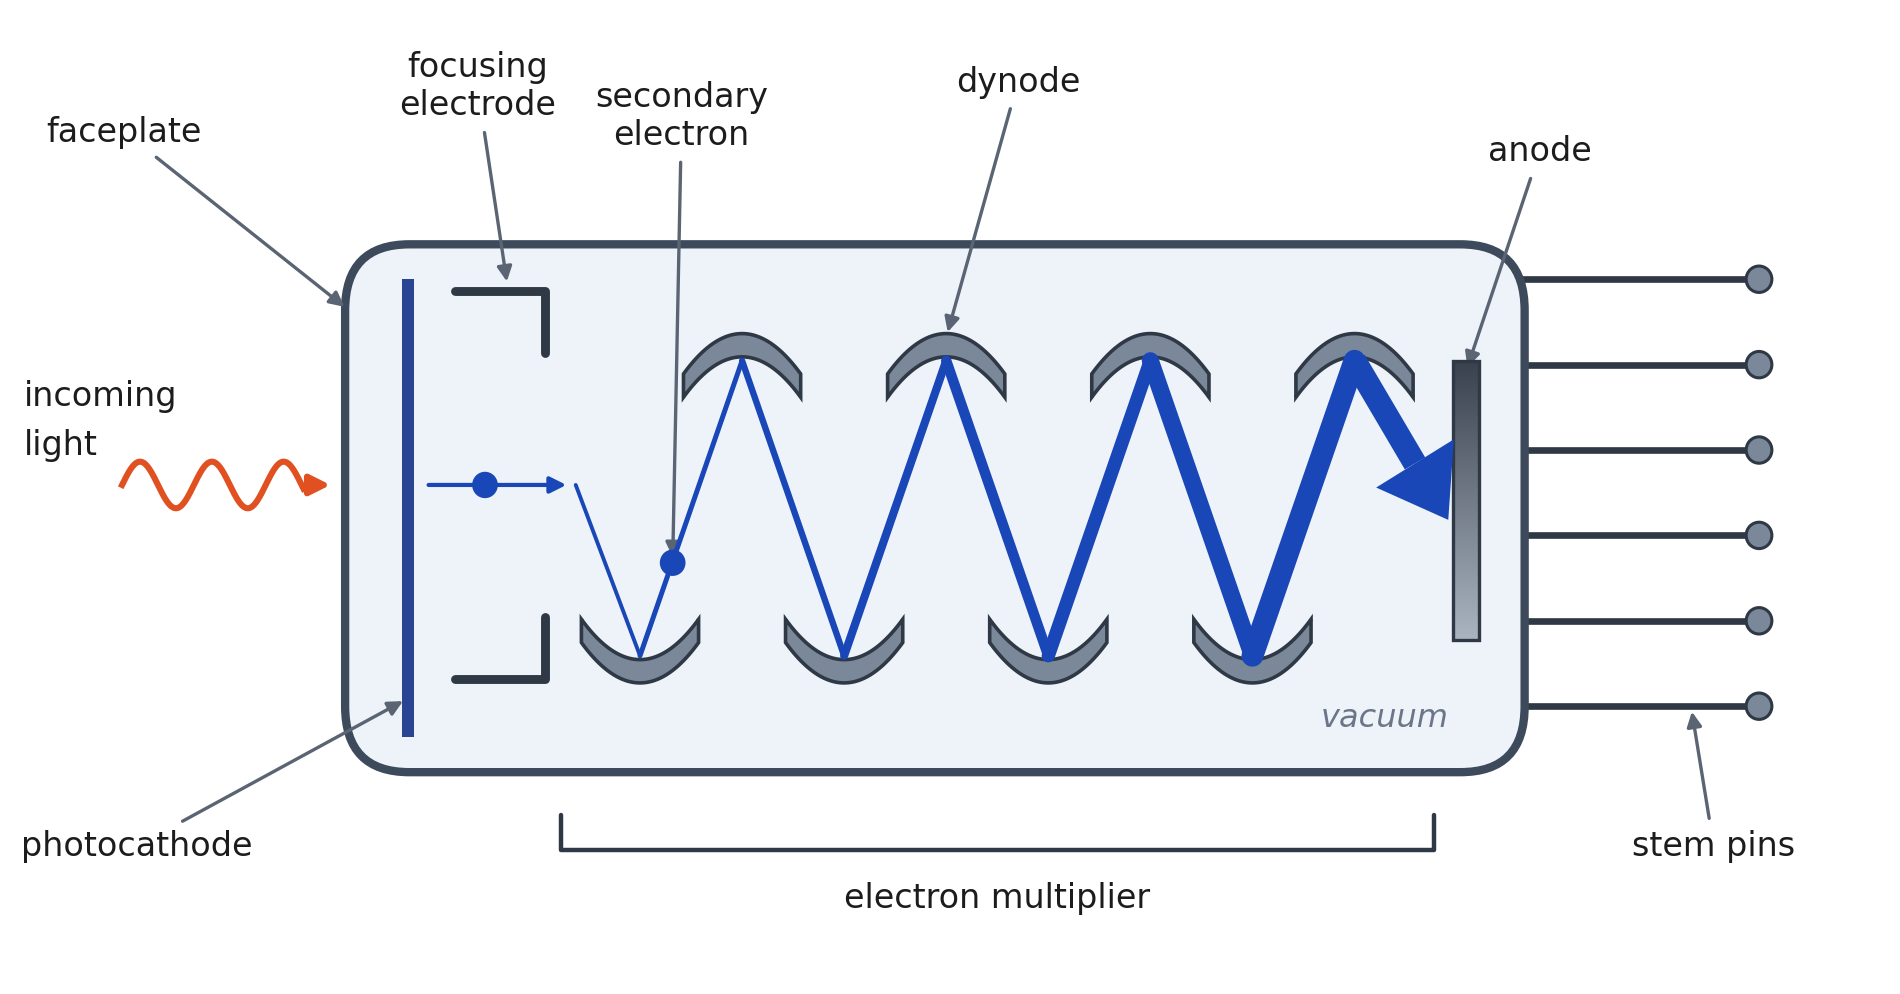
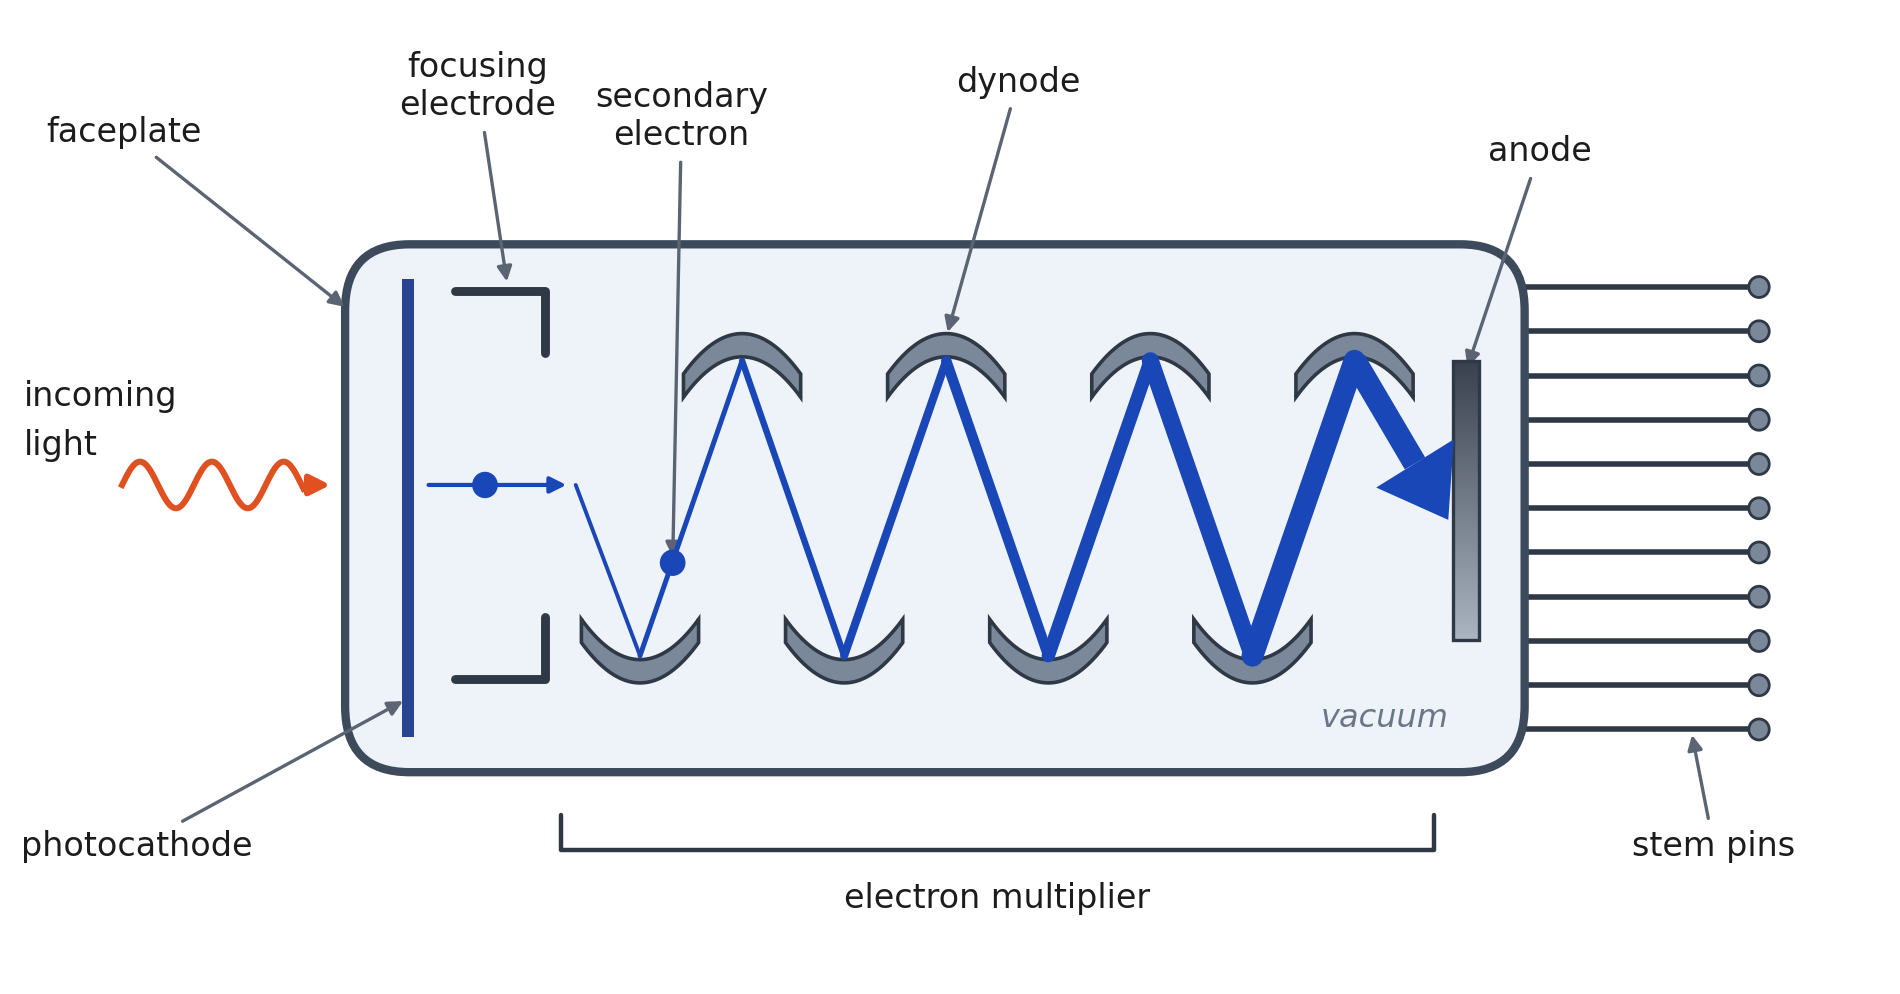
update

Changed region(s): [[0.8074, 0.2495, 0.9316, 0.5614], [0.8074, 0.6861, 0.9316, 0.7797], [0.8074, 0.5926, 0.9316, 0.6549]]

diff --git a/book/content/chap7_2.md b/book/content/chap7_2.md
@@ -1,40 +1,31 @@
 (chap7_2)=
 # 7.2 - Reading a schematic
 
-Open almost any methods paper in microscopy and you will find, usually as Figure 1, a line drawing full of ellipses, rectangles and diagonal bars, labelled with a dense fog of acronyms. It looks forbidding. It is not. A schematic is a story with a fixed plot: light is born, it travels to the sample, it comes back changed, and it is counted. Your job is to follow it.
+Open almost any methods paper in microscopy and you will find, usually as Figure 1, a line drawing full of ellipses, rectangles and diagonal bars, labelled with a dense fog of acronyms. It may looks mysterious, but it doesn't have to be. A schematic is a story with a fixed plot: light is generated, it travels to the sample, it comes back, and it is measured. Your job is to simply follow it.
 
-This section gives you a procedure and then applies it to real published instruments. The procedure is not the only one possible, and experienced people stop using it consciously, but it works every time and it is what you should fall back on when a figure looks impenetrable.
+This section gives you a procedure and then applies it to real published instruments. The procedure is not the only one possible, and experienced people stop using it consciously, but it works every time and it is what you should fall back on when a figure looks impenetrably complicated.
 
-## The procedure
-
-```{figure} ../figures/chap7_schematic_recipe.png
----
-width: 95%
-name: chap7_schematic_recipe
-align: center
----
-The five steps applied to a generic epifluorescence microscope. Find the ends of the story first, then fill in the middle.
-```
+## A simple, step-by-step procedure
 
 **1. Find the light source or sources.** Look for a laser box, an LED, a lamp, or a beam entering the figure from off-page. There may be more than one, and if there are, that fact alone is informative: multiple sources usually means multiple colours, and therefore multiple labels in the sample.
 
 **2. Find the sample.** It is almost always labelled, and it is almost always at the focus of an objective. In a schematic drawn with the optical axis vertical, it will be at the top (an inverted microscope) or in the middle (a light-sheet or a horizontal custom build).
 
-**3. Find the detector or detectors.** A camera is drawn as a rectangle, a PMT as a cylinder with a cable. Again, more than one detector tells you something: either two colours recorded simultaneously, or two different measurement modes.
+**3. Find the detector or detectors.** A camera is typically drawn as a rectangle, a PMT as a cylinder with a cable. Again, more than one detector tells you something: either two colours recorded simultaneously, or multiple possible measurement modes.
 
-**4. Follow the optical path from source to detector, through the sample.** Light travels in straight lines until something bends it. Trace the beam. If the figure is drawn well, the beam itself is shaded, and you can simply follow the shading.
+**4. Follow the optical path from source to detector, through the sample.** Despite some hardcore physicists argue that ray optics is a mere simplification of wave optics, for all practical purposes light travels in straight lines until something bends it. Trace the beam. If the figure is drawn well, the beam will have a distinctive color and run through the whole setup.
 
-**5. Identify each component you cross, and ask what it is for.** This is where the previous section pays off. Every component you cross is a decision somebody made, and each one narrows down what the instrument is for.
+**5. Identify each component you cross, and ask what it is for.** Here you need to apply what you learnt from the previous section. Every component you cross has been chosen for a specific purpose.
 
-Then step back and read the whole thing as a sentence. If you have crossed a pulsed laser, two scanning mirrors and a PMT, you are looking at a multiphoton microscope, and you knew that before reading the caption.
+At this point you can take a step back and read the whole thing as a sentence. If you have crossed a pulsed laser, two scanning mirrors and a PMT, you are looking at a multiphoton microscope, and you knew that before reading the caption. Of course, such expertise can only come with practice, which is why the next subsections cover multiple examples.
 
 ```{tip}
-When you meet a component you do not recognise, do not stop. Note where it sits (illumination path or detection path, before or after the objective, in a pupil plane or an image plane) and keep going. Its position usually tells you more than its name, and you can look the name up afterwards. Outside an exam you always can look it up, and everybody does.
+When you meet a component you do not recognise, do not stop. Note where it sits (illumination path or detection path, before or after the objective, in a pupil plane or an image plane) and keep going. Its position usually tells you more than its name, and you can look the name up afterwards. Outside an exam you always can look it up, and everybody does all the time.
 ```
 
 ## Worked example 1: two ways to build a light sheet
 
-Our first example comes from a review of light-sheet fluorescence microscopy {cite}`stelzer2021lightsheet`, and it is a gift, because it shows two implementations side by side that differ in exactly one respect.
+Our first example comes from a review of light-sheet fluorescence microscopy, and it is a gift, because it shows two implementations side by side that differ in exactly one respect.
 
 ```{figure} ../figures/chap7_schematic_lightsheet_spim_dslm.png
 ---
@@ -69,7 +60,7 @@ This pair of panels is a perfect illustration of the general principle that a sc
 
 ## Worked example 2: patterned illumination with a spatial light modulator
 
-The second example is an open-source structured illumination add-on {cite}`hannebelle2024opensim`, designed to bolt onto the illumination port of an ordinary inverted microscope.
+The second example is an open-source structured illumination add-on, designed to bolt onto the illumination port of an ordinary inverted microscope.
 
 ```{figure} ../figures/chap7_schematic_opensim.png
 ---
@@ -98,7 +89,7 @@ Notice how much you extracted without any knowledge of SIM theory. Three LEDs me
 
 ## Worked example 3: one instrument, four modes
 
-The third example {cite}`meng2022octoscope` is different in character: rather than one optical path, it shows four configurations of the same hardware.
+The third example is different in character: rather than one optical path, it shows four configurations of the same hardware.
 
 ```{figure} ../figures/chap7_schematic_octoscope.png
 ---
@@ -127,7 +118,7 @@ Ask what changes. A PMT has no pixels, so the instrument is no longer forming an
 
 ## Your turn
 
-Here is a schematic to work through yourself before reading the answer. It is an affordable, easy-to-build light-sheet microscope for cleared tissue {cite}`otomo2024descspim`.
+Here is a schematic to work through yourself before reading the answer. It is an affordable, easy-to-build light-sheet microscope for cleared tissue.
 
 ```{figure} ../figures/chap7_schematic_descspim.png
 ---
